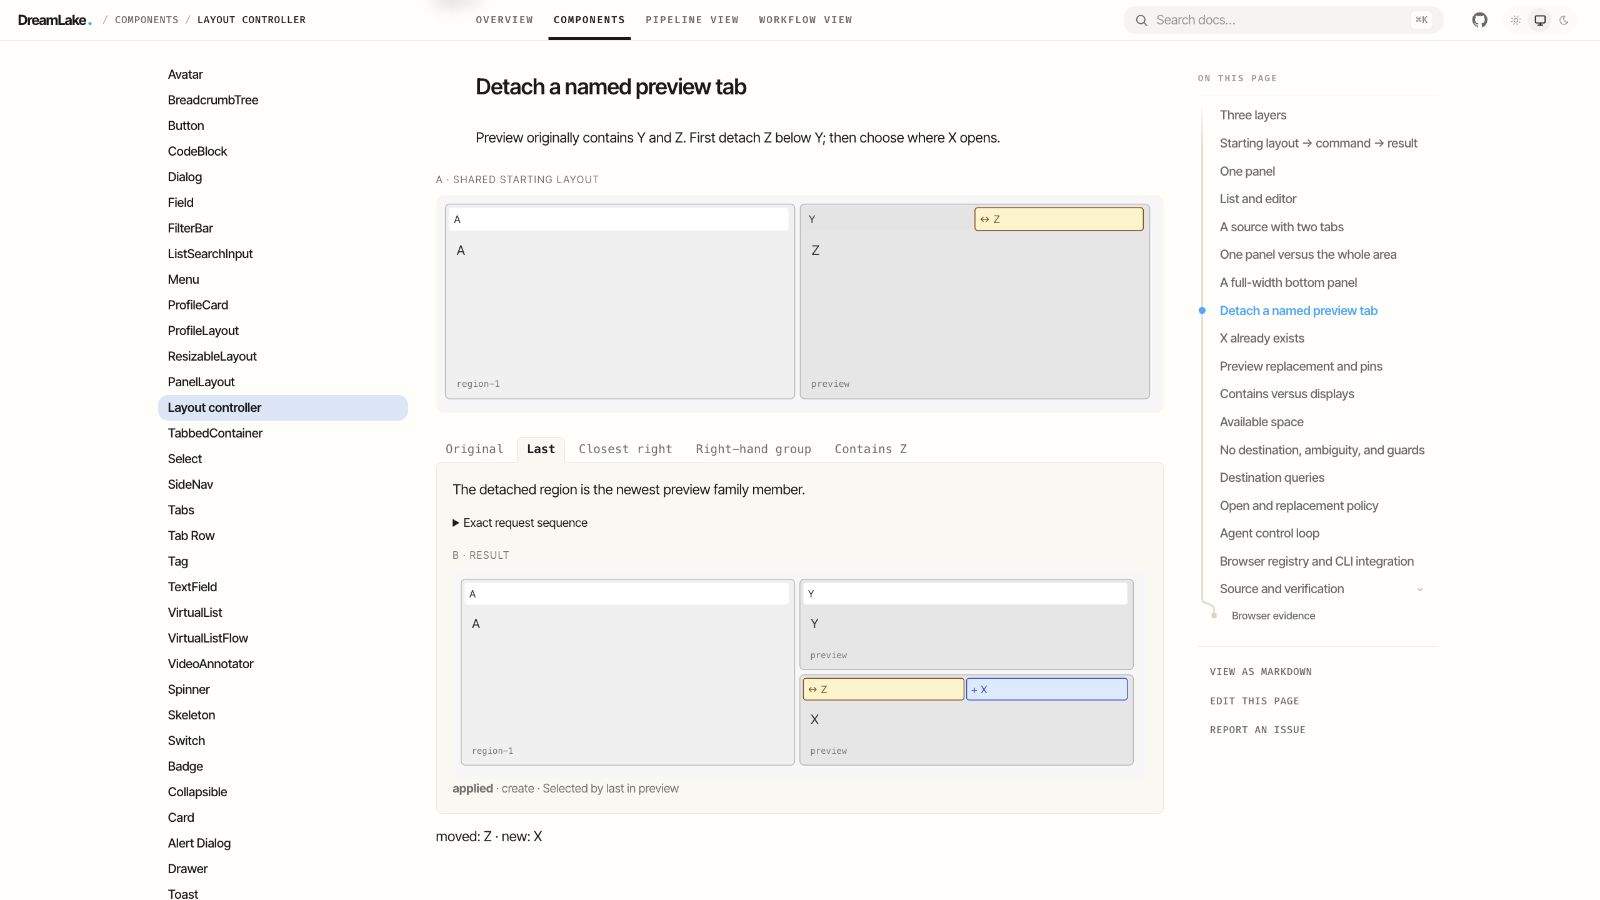
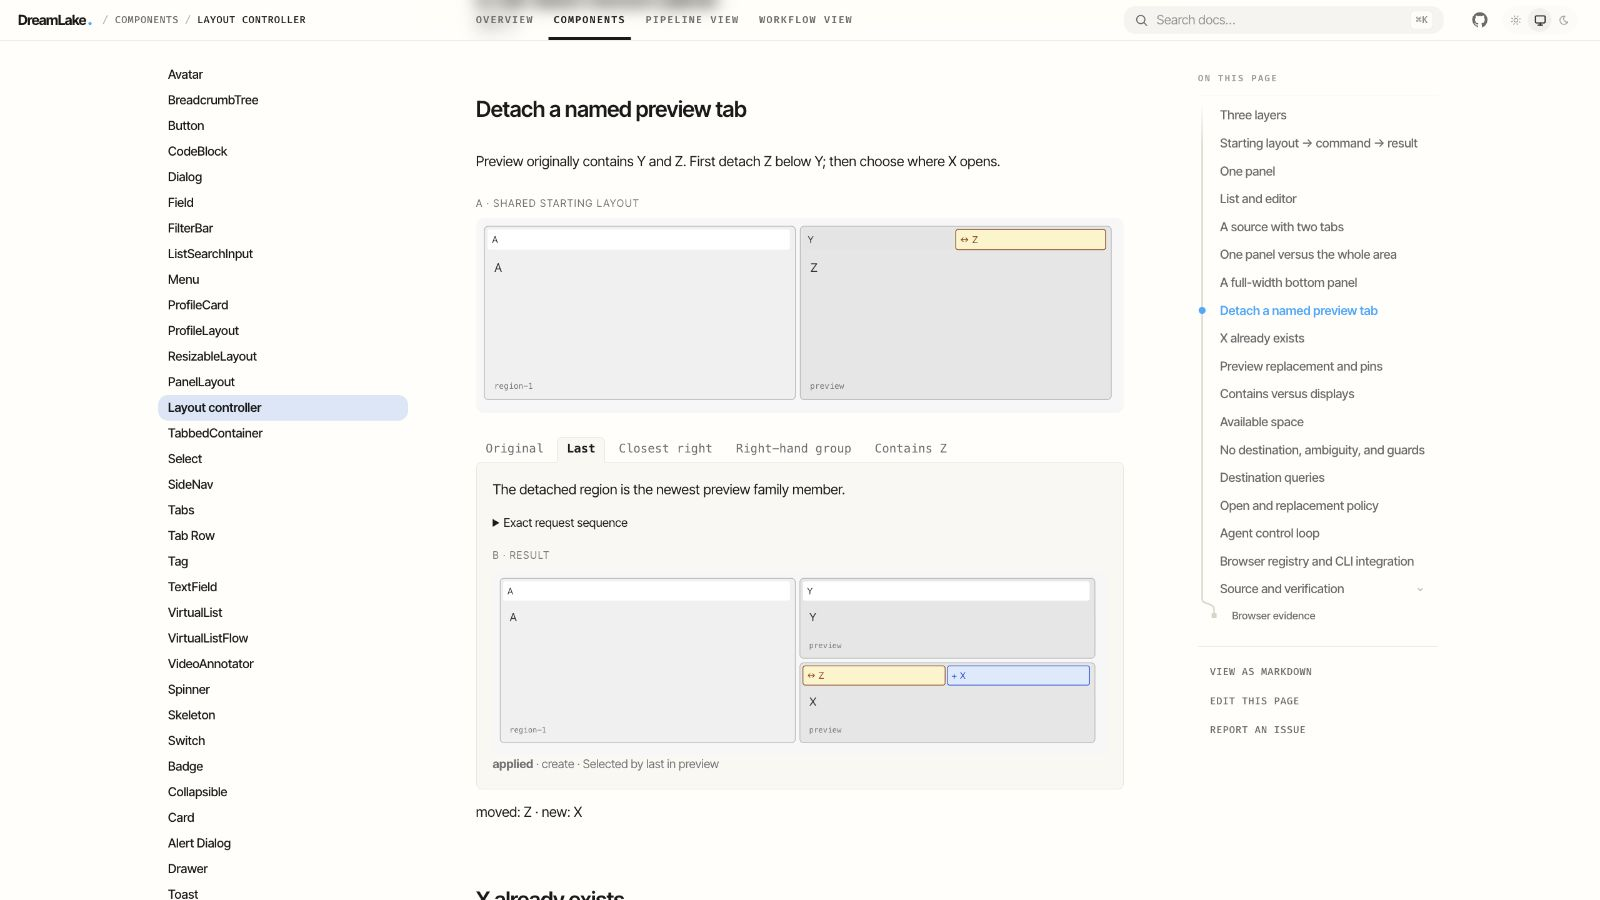
fix: keep layout examples within the text column

diff --git a/packages/docs/components/specimens/components/panel-layout/LayoutRequestsSpec.tsx b/packages/docs/components/specimens/components/panel-layout/LayoutRequestsSpec.tsx
@@ -228,7 +228,7 @@ function Example({ set }: { set: LayoutExampleSet }) {
       id={`example-${set.id}`}
     >
       <p>{set.description}</p>
-      <ContentRow>
+      <ContentRow width="text">
         <p className="layout-caption">A · Shared starting layout</p>
         <Illustration
           snapshot={state.before}

diff --git a/skills/dreamlake-uikit/reference/components-layout-controller.md b/skills/dreamlake-uikit/reference/components-layout-controller.md
@@ -27,7 +27,7 @@ screenshots. Blue **+** tabs are new, red **−** tabs are removed from the star
 layout, and amber **↔** tabs moved between panels or changed order. Unchanged tabs
 stay neutral. Dashed tabs are replaceable previews; a dot marks a pinned tab.
 Hover, click, or use arrow keys to switch branches. Each example has its own section
-heading and uses Dockit’s wider `ContentRow` without an enclosing card.
+heading and stays within the text column, without an enclosing card.
 
 </section>
 

diff --git a/CHANGELOG.md b/CHANGELOG.md
@@ -1,5 +1,9 @@
 # Release notes
 
+## 0.2.3 — 2026-09-26
+
+- Keep layout examples within the text column. Dockit ContentRow remains available for content that needs a wider row.
+
 ## 0.2.2 — 2026-09-26
 
 - Add opt-in mouse hover selection to `TabbedContainer`, preserving touch, click and keyboard navigation.
